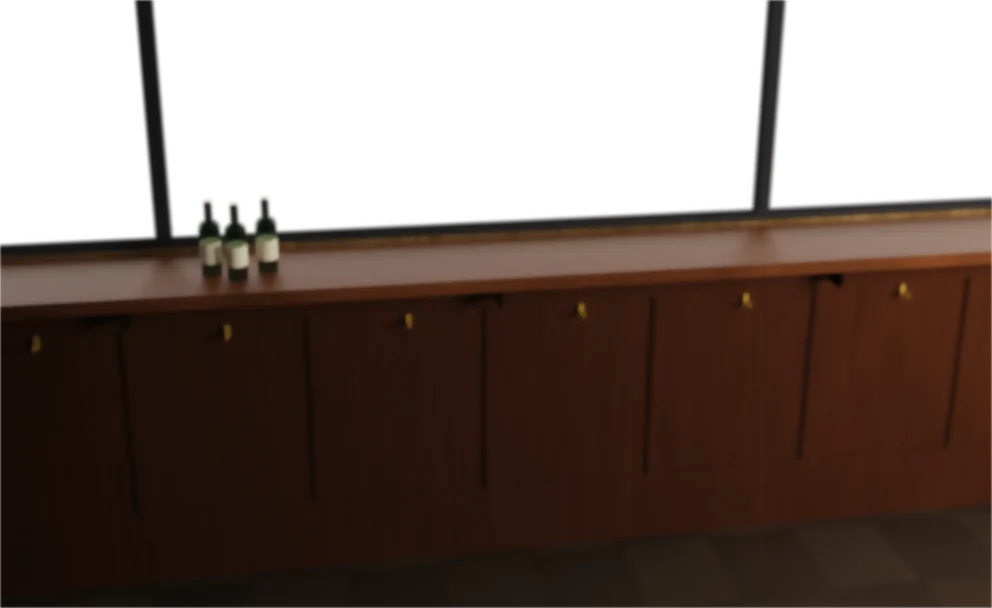
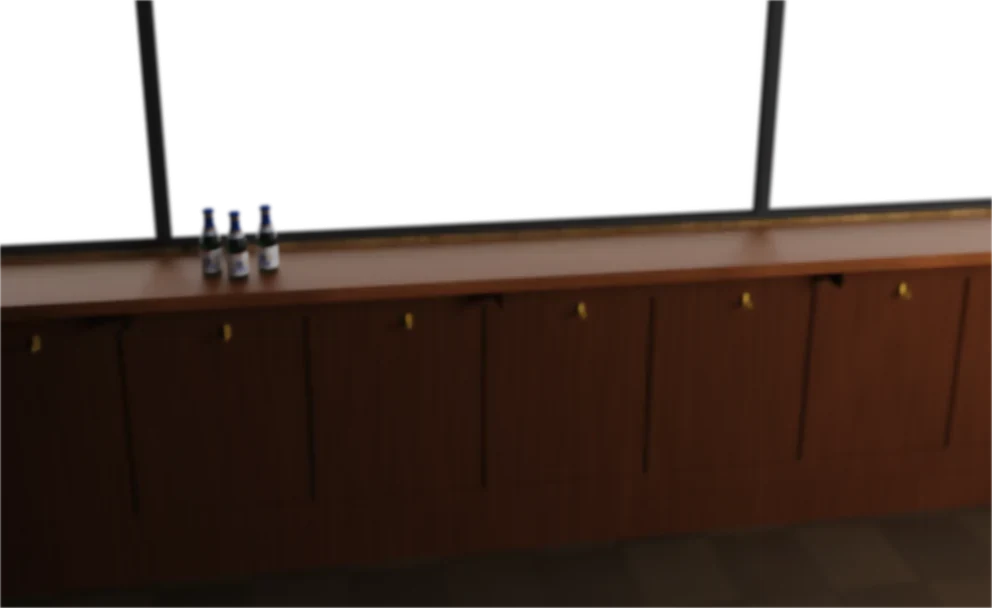
Hasse: väggbilderna bakade om med Pripps Blå på bardisken
Rutan runt flaskorna i alla sex väggbilderna (natt, lysrör och dagsljus,
bred och på höjden), 400 varv var, inlagd med lappa.py.

Claude-Session: https://claude.ai/code/session_016CdqmAV9v9BbaemJgoSzRd

Changed region(s): [[0.1875, 0.3125, 0.2812, 0.4688]]

diff --git a/scripts/hasse/README.md b/scripts/hasse/README.md
@@ -22,6 +22,6 @@ Pultens bilder i rummet (`public/rum/pult.webp`, `pult-mer.webp` och framkanten 
 
 Provservern ska servera `public/` i roten och den här mappen under `/skiss/bake/` (bak.html läser `/rum-hasse-scen.js`).
 
-Flaskorna på bardisken till vänster om honom är gängets öl, Pripps Blå i 90-talets returflaska (`bottle` i `public/rum-3d.js`), i verklig storlek: glaset följer samma profil (`FLASKA` där) som stympade koner (typ 4 i bak.html, bara manteln, så att strålarna inte bryts i lock inne i glaset), och etiketten, axelbandet och halsfolien är tunna skal utanpå med trycket ritat i atlasen (material 19, ett helt varv runt flaskan med framsidan vid u = 0,25 som i rum-3d.js), och en kapsyl överst. Förut stod det tre vinflaskor där; de byttes 2026-11-16, och rutan `680,200,1030,460` i de tre breda bilderna och `140,140,340,340` i de tre på höjden bakades om, 400 varv var, med mjukvarugrafik (ungefär en halv sekund per varv i de breda).
+Flaskorna på bardisken till vänster om honom är gängets öl, Pripps Blå i 90-talets returflaska (`bottle` i `public/rum-3d.js`), i verklig storlek: glaset följer samma profil (`FLASKA` där) som stympade koner (typ 4 i bak.html, bara manteln, så att strålarna inte bryts i lock inne i glaset), och etiketten, axelbandet och halsfolien är tunna skal utanpå med trycket ritat i atlasen (material 19, ett helt varv runt flaskan med framsidan vid u = 0,25 som i rum-3d.js), och en kapsyl överst. Förut stod det tre vinflaskor där; de byttes 2026-11-16, och rutan `680,200,1030,460` i de tre breda bilderna och `140,140,340,340` i de tre på höjden bakades om, 400 varv var, med mjukvarugrafik: drygt fyra minuter per bild för de breda och två för dem på höjden.
 
 **En ruta i taget.** `RUTA=x0,y0,x1,y1` (i bildens bildpunkter, y nedåt) bakar bara den rutan, och resten av bilden blir genomskinlig: `CHROME=/opt/pw-browsers/chromium RUTA=1400,330,2025,945 node scripts/hasse/baka.mjs bak 400`. `python3 scripts/hasse/lappa.py bak.png public/rum/hasse-bak.webp 1400 330 2025 945` lägger in den i den färdiga bilden, med en mjuk övergång (36 bildpunkter) längs de kanter som ligger inne i bilden, och sparar den som webp med Pillow (kvalitet 88, alfa 90). Med mjukvarugrafik (SwiftShader, fyra kärnor) tog rutan nedan 2,6 sekunder per varv i de breda bilderna (17 minuter för 400 varv) och 0,6 i dem på höjden. Så togs barstolen längst till höger bort 2026-11-13, när veckans löpsedel kom upp i kroken i fältet bredvid (`SCEN.LOPSEDEL`): rutan ovan i de tre breda bilderna och `760,250,992,608` i de tre på höjden, 400 varv var.
